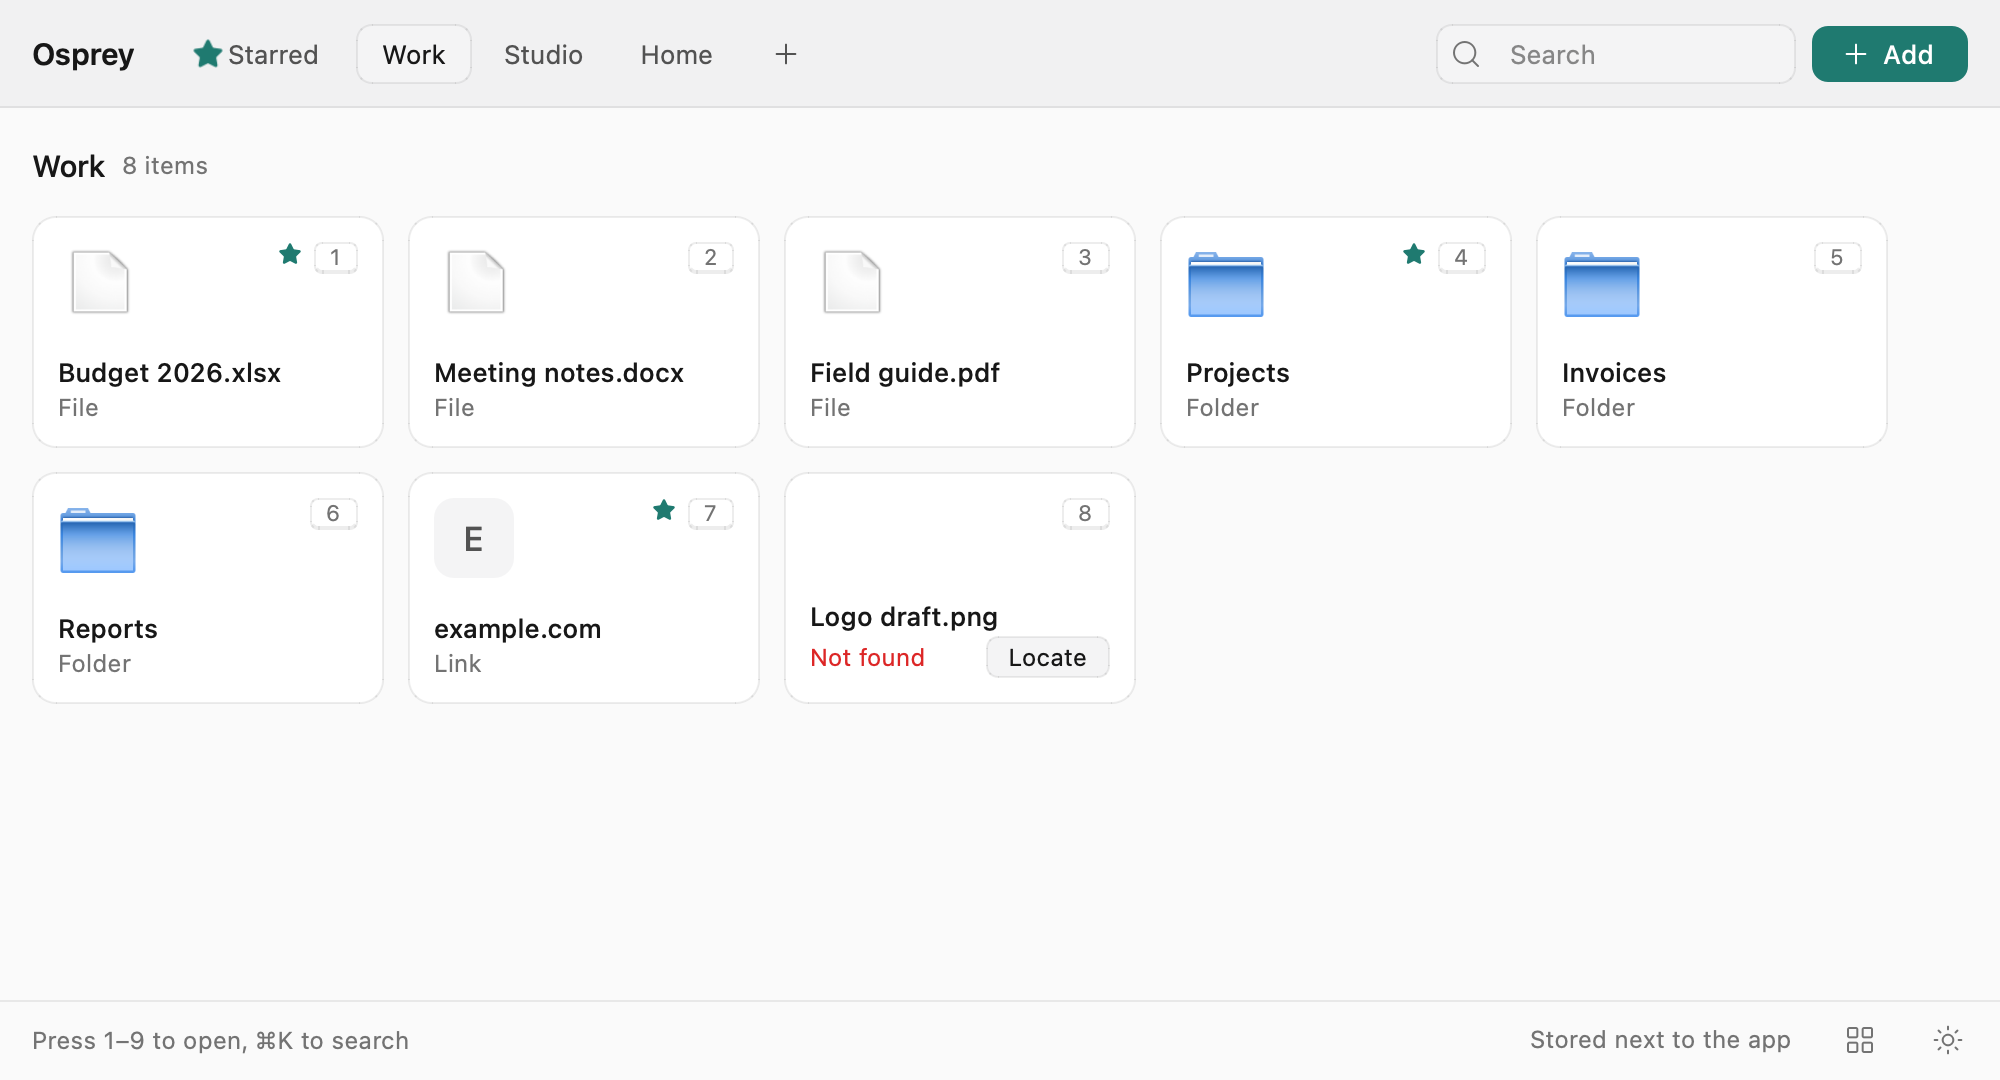
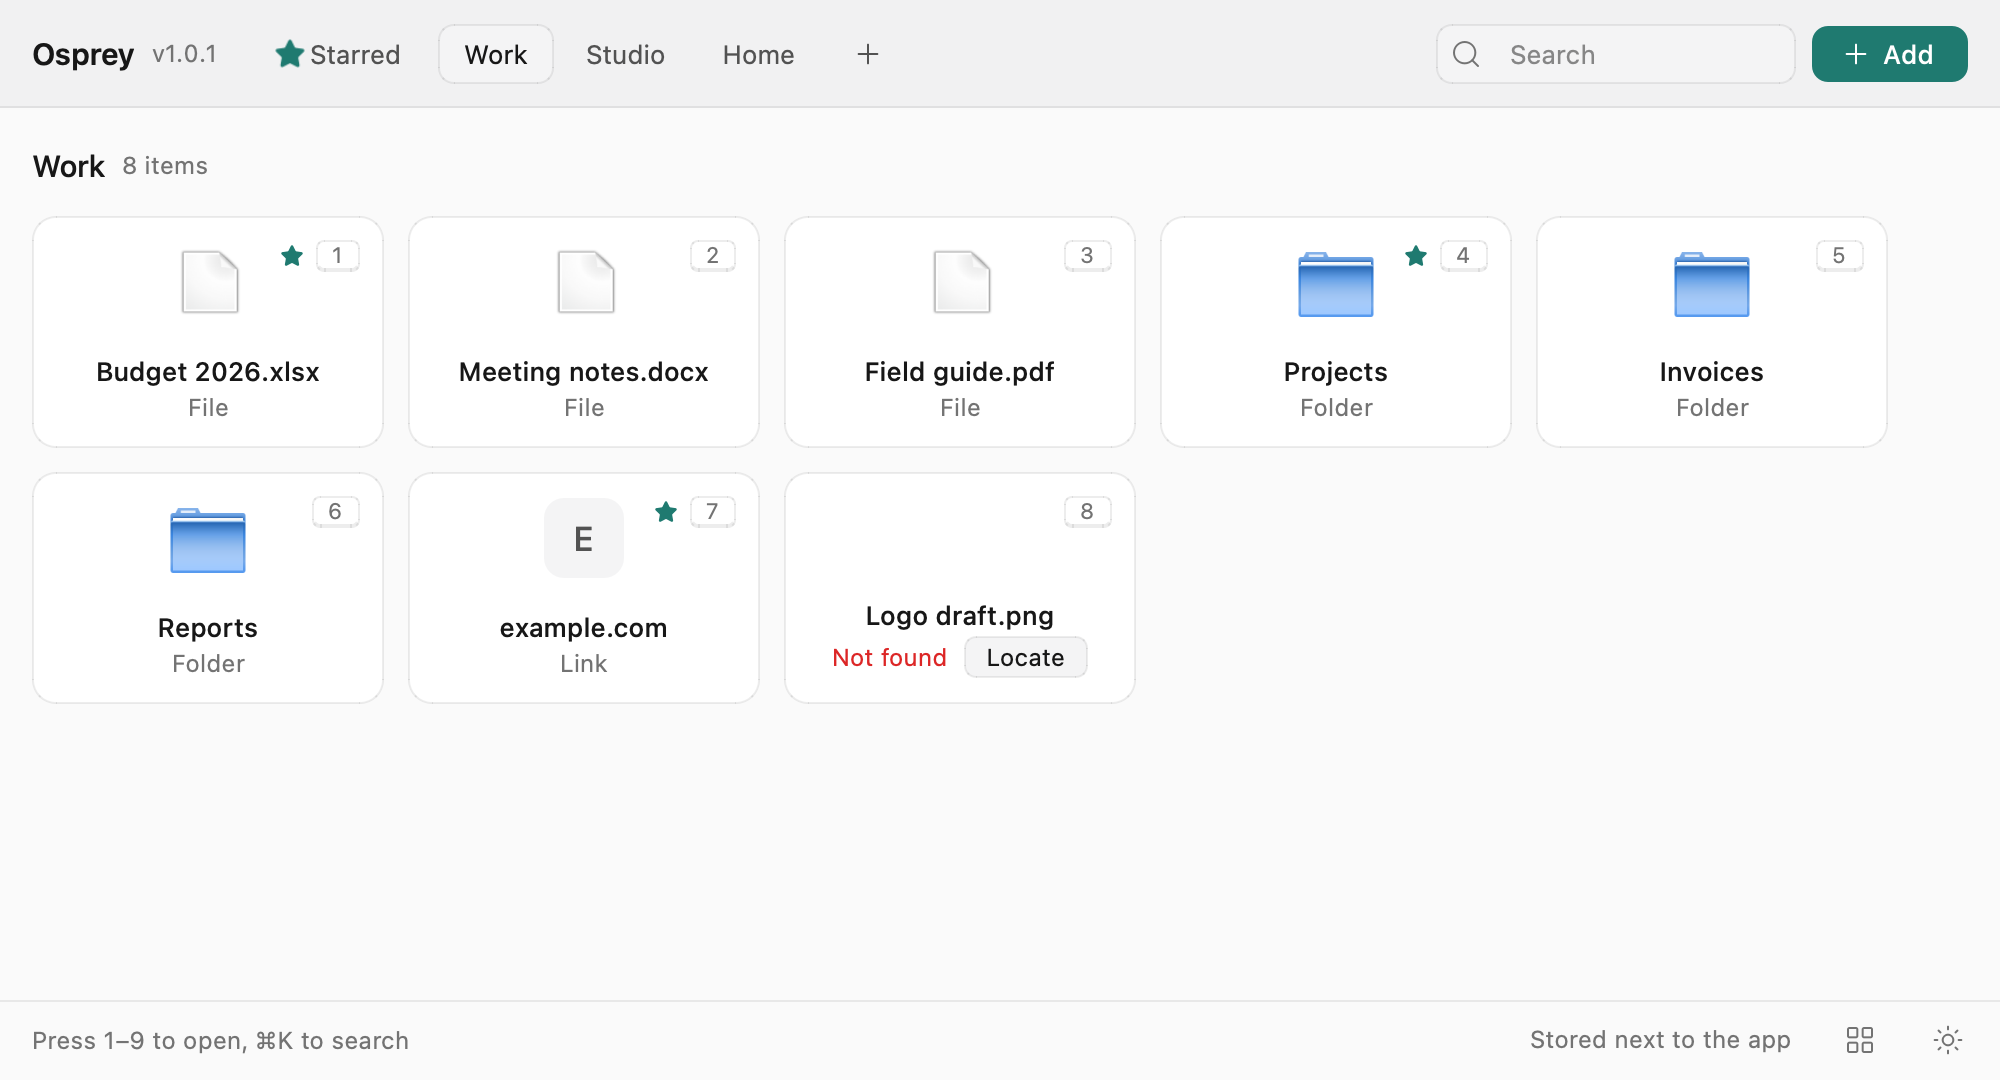
Fix tile reflow on resize and centre tile content
- Tiles now reflow when the window gets narrower. The grid's layout
  reported its current column count as a minimum width, so the scroll
  area never shrank it.
- Icon, name and type are centred in each tile; the key and star stay
  in the top-right corner.
- Long names are measured with the tile font, so they no longer clip.
- Grid tests for reflow, centring and name fitting.
- Screenshots show the release version; README download steps; site
  previews match the centred tiles and show the version.

diff --git a/docs/style.css b/docs/style.css
@@ -139,16 +139,18 @@ h1 { font-size: clamp(34px, 6.4vw, 72px); line-height: 1.04; letter-spacing: -0.
 }
 .tile.hit { background: var(--raised); border-color: rgba(92, 191, 179, 0.55); }
 .tile.enter { opacity: 0; transform: translateY(6px); }
-.tile-top { display: flex; justify-content: space-between; align-items: flex-start; height: 40px; margin-bottom: 10px; }
+.tile { text-align: center; }
+.tile-top { display: flex; justify-content: center; align-items: flex-start; height: 40px; margin-bottom: 10px; }
 .tile-name { font-weight: 500; white-space: nowrap; overflow: hidden; text-overflow: ellipsis; }
 .tile-meta { color: var(--t3); font-size: 12px; white-space: nowrap; overflow: hidden; text-overflow: ellipsis; }
-.tile-meta.missing { color: var(--danger); display: flex; justify-content: space-between; align-items: center; gap: 6px; }
+.tile-meta.missing { color: var(--danger); display: flex; justify-content: center; align-items: center; gap: 6px; }
 .locate {
   font-size: 11px; color: var(--t1); padding: 1px 8px; border-radius: 6px;
   background: var(--raised); border: 1px solid var(--hl); transition: border-color .2s;
 }
 .locate.hit { border-color: var(--acc); }
-.marks { display: flex; align-items: center; gap: 6px; }
+.marks { position: absolute; top: 12px; right: 12px; display: flex; align-items: center; gap: 6px; }
+.win-version { color: var(--t3); font-size: 12px; margin: 0 8px 0 -14px; white-space: nowrap; }
 .marks .star { width: 12px; height: 12px; fill: var(--acc); transition: opacity .25s, transform .25s var(--ease); }
 .marks .star.off { opacity: 0; transform: scale(0.4); }
 .key {
@@ -162,7 +164,7 @@ h1 { font-size: clamp(34px, 6.4vw, 72px); line-height: 1.04; letter-spacing: -0.
 /* File-type icons, drawn in CSS to mirror the system icons in the app */
 .ic { width: 34px; height: 40px; display: block; position: relative; }
 .ic-doc {
-  width: 30px; height: 38px; margin-left: 4px; border-radius: 3px;
+  width: 30px; height: 38px; border-radius: 3px;
   background: linear-gradient(225deg, transparent 8px, #e9e9ec 8px);
 }
 .ic-doc::after {
@@ -279,7 +281,7 @@ h1 { font-size: clamp(34px, 6.4vw, 72px); line-height: 1.04; letter-spacing: -0.
 @media (max-width: 640px) {
   .wrap { padding-left: 16px; padding-right: 16px; }
   .nav-links { display: none; }
-  #hero-window .wordmark { display: none; }
+  #hero-window .wordmark, #hero-window .win-version { display: none; }
   .tile-meta.missing { flex-wrap: wrap; }
   .nav-row .btn-small { margin-left: auto; }
   .hero { padding-top: 64px; }

diff --git a/docs/index.html b/docs/index.html
@@ -60,6 +60,7 @@
         <div class="window" id="hero-window" aria-label="Live preview of the Osprey Launcher window">
           <div class="win-head">
             <span class="wordmark">Osprey</span>
+            <span class="win-version" id="hero-version"></span>
             <div class="tabs" id="hero-tabs"></div>
             <span class="win-search"><svg viewBox="0 0 24 24" aria-hidden="true"><circle cx="11" cy="11" r="7"/><path d="m20 20-3.5-3.5"/></svg>Search</span>
             <span class="win-add">+ Add</span>
@@ -183,7 +184,7 @@
           <p>Opens .desktop shortcuts with gio launch. Install GLib if gio is missing.</p>
         </a>
       </div>
-      <p class="fine" id="dl-note">No release is published yet. Until then, <a href="https://github.com/TariqMK/Osprey-Launcher#run-from-source">run it from source</a> with Python 3.9 or later.</p>
+      <p class="fine" id="dl-note">Prefer to build it yourself? <a href="https://github.com/TariqMK/Osprey-Launcher#run-from-source">Run it from source</a> with Python 3.9 or later.</p>
     </section>
   </main>
 

diff --git a/docs/app.js b/docs/app.js
@@ -248,7 +248,7 @@
         const date = new Date(rel.published_at).toLocaleDateString("en-GB", { day: "numeric", month: "short", year: "numeric" });
         el("dl-version").textContent = `${rel.tag_name} · ${date}`;
         el("hero-meta").textContent = `${rel.tag_name} · Free · GPL-3.0 · Works offline · No tracking`;
-        el("dl-note").innerHTML = 'Prefer to build it yourself? <a href="https://github.com/TariqMK/Osprey-Launcher#run-from-source">Run it from source</a> with Python 3.9 or later.';
+        el("hero-version").textContent = rel.tag_name;
       })
       .catch(() => { /* No release yet, offline or rate-limited: links already point to the Releases page. */ });
   }

diff --git a/tests/test_grid.py b/tests/test_grid.py
@@ -1,0 +1,122 @@
+"""Tile and grid layout tests: columns follow the window width, and tile content is centred."""
+
+from __future__ import annotations
+
+import os
+
+os.environ.setdefault("QT_QPA_PLATFORM", "offscreen")
+
+import pytest
+from PySide6.QtCore import Qt
+from PySide6.QtGui import QFontMetrics, QPixmap
+from PySide6.QtWidgets import QApplication, QLabel, QScrollArea
+
+from osprey_launcher.app import GAP, MARGIN, Tile, TileGrid, tile_size
+from osprey_launcher.theme import PALETTES, stylesheet
+
+
+@pytest.fixture(scope="module")
+def app():
+    application = QApplication.instance() or QApplication([])
+    application.setStyleSheet(stylesheet(PALETTES["dark"], "monospace"))
+    return application
+
+
+def make_grid(app, count: int = 10, names: bool = True, types: bool = True):
+    """A tile grid inside a scroll area, set up the same way as the main window."""
+    scroll = QScrollArea()
+    scroll.setWidgetResizable(True)
+    scroll.setHorizontalScrollBarPolicy(Qt.ScrollBarAlwaysOff)
+    grid = TileGrid()
+    scroll.setWidget(grid)
+    tiles = [
+        Tile(
+            str(i), f"Item {i}", "App", QPixmap(40, 40), i + 1, False, "", names, types
+        )
+        for i in range(count)
+    ]
+    grid.set_tiles(tiles, tile_size(names, types))
+    scroll.show()
+    return scroll, grid
+
+
+def resize(app, scroll: QScrollArea, width: int) -> None:
+    scroll.resize(width, 500)
+    app.processEvents()
+
+
+def expected_columns(grid: TileGrid, viewport_width: int) -> int:
+    return max(1, (viewport_width - 2 * MARGIN + GAP) // (grid.tile_w + GAP))
+
+
+def test_columns_shrink_when_window_narrows(app):
+    scroll, grid = make_grid(app)
+    resize(app, scroll, 1300)
+    wide = grid.columns
+    resize(app, scroll, 700)
+    viewport = scroll.viewport().width()
+    assert grid.columns < wide
+    assert grid.width() == viewport
+    assert grid.columns == expected_columns(grid, viewport)
+
+
+def test_no_tile_extends_past_the_visible_area(app):
+    scroll, grid = make_grid(app)
+    for width in (1300, 1000, 600, 420, 1100):
+        resize(app, scroll, width)
+        right = max(t.geometry().right() for t in grid.tiles)
+        assert right < scroll.viewport().width(), f"tile off screen at {width} px"
+
+
+def test_columns_grow_when_window_widens(app):
+    scroll, grid = make_grid(app)
+    resize(app, scroll, 600)
+    narrow = grid.columns
+    resize(app, scroll, 1300)
+    assert grid.columns > narrow
+
+
+@pytest.mark.parametrize("names,types", [(True, False), (False, False)])
+def test_compact_tiles_reflow_too(app, names, types):
+    scroll, grid = make_grid(app, names=names, types=types)
+    resize(app, scroll, 1300)
+    resize(app, scroll, 500)
+    assert grid.columns == expected_columns(grid, scroll.viewport().width())
+
+
+def test_one_column_minimum(app):
+    scroll, grid = make_grid(app, count=3)
+    resize(app, scroll, 120)
+    assert grid.columns == 1
+
+
+def make_tile(app, name: str, star: bool = False) -> Tile:
+    pixmap = QPixmap(12, 12) if star else None
+    tile = Tile("1", name, "File", QPixmap(40, 40), 1, False, "", True, True, pixmap)
+    tile.show()
+    app.processEvents()
+    return tile
+
+
+def label(tile: Tile, name: str) -> QLabel:
+    return tile.findChild(QLabel, name)
+
+
+def test_icon_and_name_are_centred_and_key_stays_in_corner(app):
+    tile = make_tile(app, "Budget 2026.xlsx", star=True)
+    middle = tile.width() / 2
+    icon = next(c for c in tile.findChildren(QLabel) if c.pixmap() and c.width() == 40)
+    assert abs(icon.geometry().center().x() + 0.5 - middle) <= 1
+    assert label(tile, "tileName").alignment() & Qt.AlignHCenter
+    key = label(tile, "keycap")
+    assert key.geometry().right() == tile.width() - 12 - 1
+    star = label(tile, "starMark")
+    assert star.geometry().right() < key.geometry().left()
+
+
+def test_long_name_fits_inside_the_tile(app):
+    for name in ("Quarterly planning workshop notes final v3.docx", "W" * 40):
+        tile = make_tile(app, name)
+        name_label = label(tile, "tileName")
+        width = QFontMetrics(name_label.font()).horizontalAdvance(name_label.text())
+        assert width <= name_label.width(), name

diff --git a/osprey_launcher/app.py b/osprey_launcher/app.py
@@ -34,6 +34,7 @@ from PySide6.QtWidgets import (
     QMessageBox,
     QPushButton,
     QScrollArea,
+    QSizePolicy,
     QStackedWidget,
     QVBoxLayout,
     QWidget,
@@ -138,28 +139,37 @@ class Tile(QFrame):
                 dot.move(size.width() - 16, size.height() - 16)
             return
 
+        # Icon, name and type are centred. The key and star sit in the top-right corner,
+        # placed directly so they do not push the icon off centre.
         layout.setContentsMargins(12, 12, 12, 12)
-        top = QHBoxLayout()
-        top.setSpacing(0)
-        top.addWidget(icon, 0, Qt.AlignTop)
-        top.addStretch()
+        layout.addWidget(icon, 0, Qt.AlignHCenter | Qt.AlignTop)
+        right = size.width() - 12
+        cap_height = 0
+        if key:
+            cap = QLabel(str(key), self, objectName="keycap")
+            cap.ensurePolished()
+            cap.adjustSize()
+            right -= cap.width()
+            cap.move(right, 12)
+            cap_height = cap.height()
         if star is not None:
-            mark = QLabel(objectName="starMark")
+            mark = QLabel(self, objectName="starMark")
             mark.setPixmap(star)
             mark.setToolTip("Starred")
-            top.addWidget(mark, 0, Qt.AlignTop)
-            top.addSpacing(6)
-        if key:
-            cap = QLabel(str(key))
-            cap.setObjectName("keycap")
-            top.addWidget(cap, 0, Qt.AlignTop)
-        layout.addLayout(top)
+            mark.adjustSize()
+            if key:
+                right -= 6
+            mark.move(
+                right - mark.width(), 12 + max(0, cap_height - mark.height()) // 2
+            )
         layout.addStretch()
 
         if show_name:
             name_label = QLabel()
             name_label.setObjectName("tileName")
             name_label.setProperty("missing", missing and not show_type)
+            name_label.setAlignment(Qt.AlignHCenter)
+            name_label.ensurePolished()  # Measure with the style sheet's font, not the default.
             name_label.setText(
                 QFontMetrics(name_label.font()).elidedText(
                     name, Qt.ElideMiddle, size.width() - 24
@@ -177,14 +187,15 @@ class Tile(QFrame):
         meta_label.setObjectName("tileMeta")
         meta_label.setProperty("missing", missing)
         meta_label.setText("Not found" if missing else meta)
-        meta_row.addWidget(meta_label)
         meta_row.addStretch()
+        meta_row.addWidget(meta_label)
         if missing:
             locate = QPushButton("Locate")
             locate.setObjectName("secondary")
             locate.setCursor(Qt.PointingHandCursor)
             locate.clicked.connect(lambda: self.locate_requested.emit(self.item_id))
             meta_row.addWidget(locate)
+        meta_row.addStretch()
         layout.addLayout(meta_row)
 
     def mousePressEvent(self, event):
@@ -243,6 +254,9 @@ class TileGrid(QWidget):
         self.grid.setContentsMargins(MARGIN, 8, MARGIN, 20)
         self.grid.setSpacing(GAP)
         self.grid.setAlignment(Qt.AlignTop | Qt.AlignLeft)
+        # The layout's minimum width is its current column count. Ignore it, so the scroll
+        # area can make the grid narrower when the window shrinks and the columns reflow.
+        self.setSizePolicy(QSizePolicy.Ignored, QSizePolicy.Preferred)
         self.indicator = QWidget(self, objectName="dropIndicator")
         self.indicator.setAttribute(Qt.WA_StyledBackground)
         self.indicator.setAttribute(Qt.WA_TransparentForMouseEvents)

diff --git a/assets/make_screenshots.py b/assets/make_screenshots.py
@@ -3,7 +3,11 @@
 Writes assets/screenshots/<view>-light.png and <view>-dark.png at 2x (2000 x 1080 px).
 
 Run from the project root with the project's environment, on Windows, macOS or Linux:
-  .venv/bin/python assets/make_screenshots.py
+  .venv/bin/python assets/make_screenshots.py [--version 1.2.0]
+
+The version in the header is the newest release tag (vX.Y.Z), so the screenshots never show the
+development version. Pass --version to show a release that is about to be made. The version is
+set only inside this script; the source keeps its development version.
 
 Privacy: the app runs on a new temporary data folder with generated sample files, makes no
 network requests, and only its content area is captured (no system title bar or desktop).
@@ -15,7 +19,9 @@ system and reveal which apps are installed on the computer that takes the screen
 from __future__ import annotations
 
 import os
+import re
 import shutil
+import subprocess
 import sys
 import tempfile
 from pathlib import Path
@@ -28,6 +34,7 @@ sys.path.insert(0, str(ROOT))
 
 from PySide6.QtWidgets import QApplication
 
+import osprey_launcher.app as app_module
 from osprey_launcher.app import APP_NAME, MainWindow
 from osprey_launcher.icons import IconCache, app_icon
 from osprey_launcher.store import Store
@@ -110,7 +117,29 @@ def capture(window: MainWindow, app: QApplication, name: str) -> None:
         print(f"Wrote {path.relative_to(ROOT)} ({image.width()} x {image.height()} px)")
 
 
+def release_version() -> str:
+    """The version to show: --version if given, else the newest vX.Y.Z tag, else the source's."""
+    if "--version" in sys.argv:
+        return sys.argv[sys.argv.index("--version") + 1].lstrip("v")
+    try:
+        tags = subprocess.run(
+            ["git", "tag", "--list"],
+            cwd=ROOT,
+            capture_output=True,
+            text=True,
+            check=True,
+        ).stdout.split()
+    except (OSError, subprocess.CalledProcessError):
+        tags = []
+    plain = [t for t in tags if re.fullmatch(r"v\d+\.\d+\.\d+", t)]
+    if not plain:
+        return app_module.__version__
+    return max(plain, key=lambda t: tuple(int(n) for n in t[1:].split("."))).lstrip("v")
+
+
 def main() -> int:
+    app_module.__version__ = release_version()
+    print(f"Header shows v{app_module.__version__}")
     app = QApplication(sys.argv[:1])
     app.setApplicationName(APP_NAME)
     app.setStyle("Fusion")

diff --git a/README.md b/README.md
@@ -26,11 +26,21 @@ Works offline. Sends no data. The one exception is a single request for a site's
 
 ## Download
 
-Osprey Launcher will be published for Windows (x64), macOS (Apple silicon) and Linux (x64) on the [Releases page](https://github.com/TariqMK/Osprey-Launcher/releases).
+Download the latest version from the [Releases page](https://github.com/TariqMK/Osprey-Launcher/releases/latest), or from the [Osprey Launcher website](https://tariqmk.github.io/Osprey-Launcher/).
 
-**Note:** No release is published yet. To use the app now, see [Run from source](#run-from-source).
+| System | File | Contents |
+| --- | --- | --- |
+| Windows (x64) | `Osprey-Launcher-vX.Y.Z-windows-x64.exe` | The app, as one file. No installer. |
+| macOS (Apple silicon) | `Osprey-Launcher-vX.Y.Z-macos-arm64.zip` | `Osprey Launcher.app`. |
+| Linux (x64) | `Osprey-Launcher-vX.Y.Z-linux-x64.tar.gz` | The `osprey-launcher` program, as one file. |
 
-**Note:** macOS builds will be unsigned. The first time you open the app, macOS blocks it. To allow it:
+1. Download the file for your system.
+2. Put the app in a folder of your choice. The app creates its data folder next to itself.
+3. Open the app.
+
+The version shows next to the name at the top left of the window.
+
+**Note:** macOS builds are unsigned. The first time you open the app, macOS blocks it. To allow it:
 
 1. Open **System Settings** > **Privacy & Security**.
 2. Scroll to **Security**.
@@ -249,6 +259,8 @@ Retake the screenshots after a change to the window:
 ```bash
 .venv/bin/python assets/make_screenshots.py
 ```
+
+The version in the screenshots is the newest release tag. To show a release you are about to make, add `--version`, for example `--version 1.2.0`.
 
 Rebuild the icon, banner and social card after a change to the icon or tagline:
 
